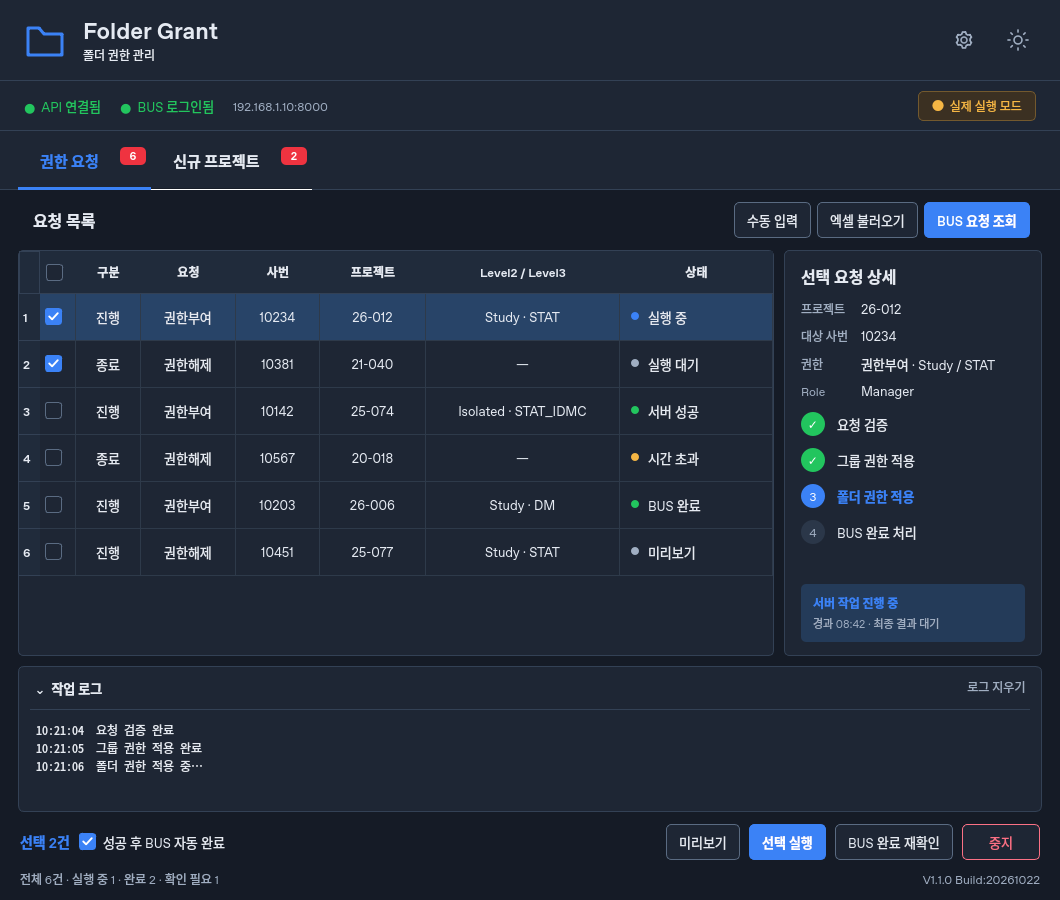
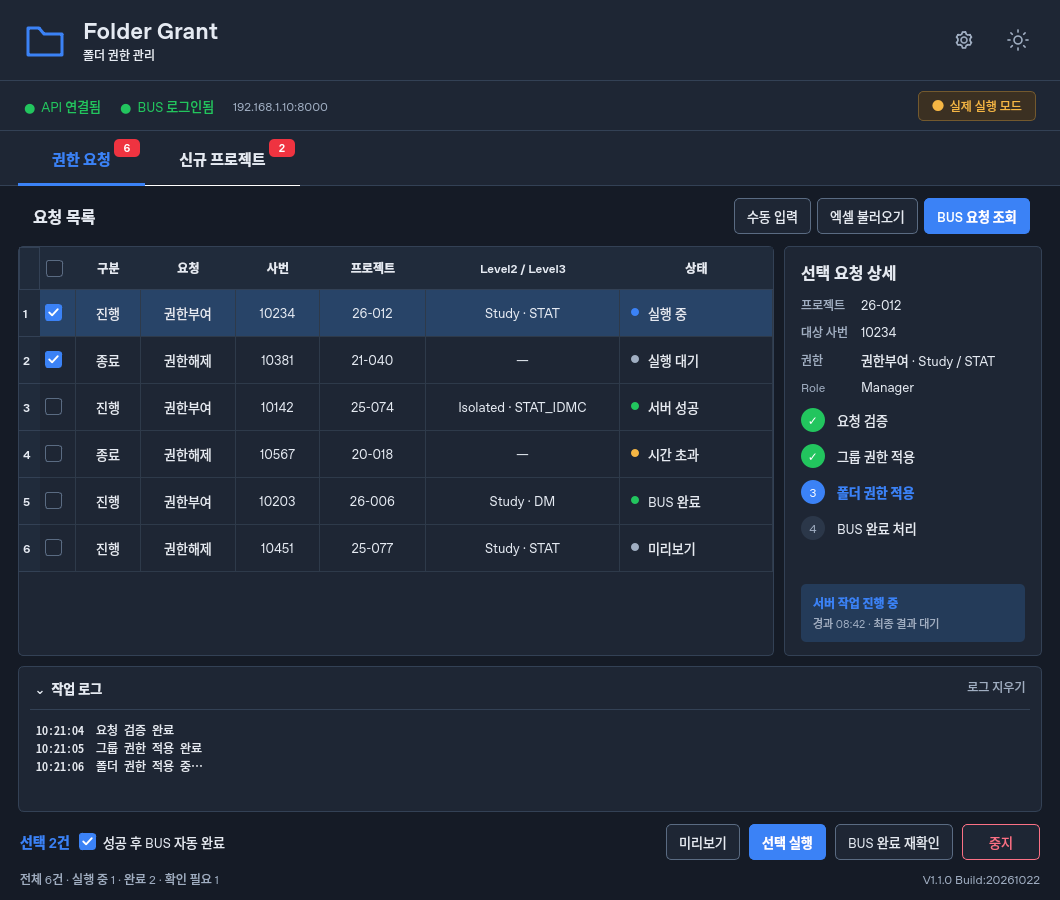
Anchor count badges to upper right of tab labels

diff --git a/Client/tests/test_ui_design.py b/Client/tests/test_ui_design.py
@@ -247,7 +247,7 @@ class DesignTests(unittest.TestCase):
         w = self.window
         self.show()
         for index,badge in enumerate(w.tab_count_badges):
-            self.assertIs(badge.parent(),w.tabs.tabButton(index,self.m.QTabBar.RightSide))
+            self.assertIs(badge.parent(),w.tabs)
             point = badge.mapTo(w.tabs,self.m.QPoint(0,0))
             self.assertTrue(w.tabs.tabRect(index).contains(point))
             self.assertLess(point.y(),w.tabs.tabRect(index).center().y())
